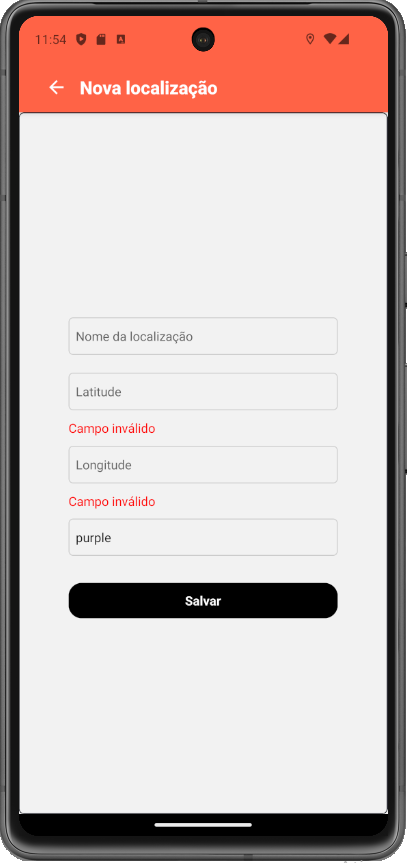
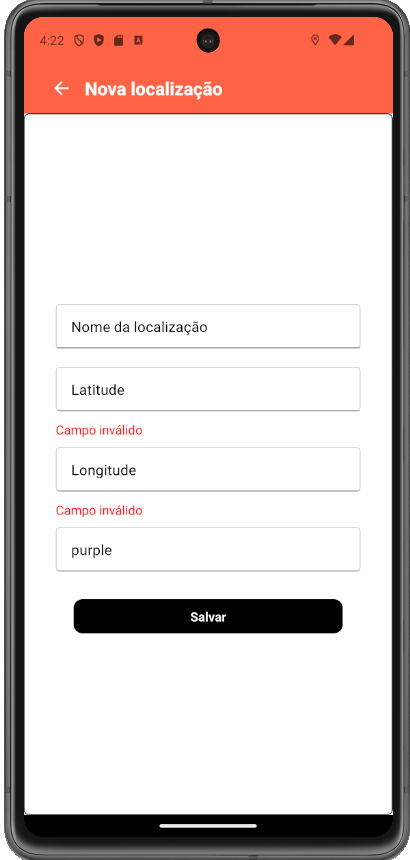
Atualização das imagens das telas e inclusão de novas telas

Changed region(s): [[0.0, 0.0, 1.0, 1.0], [0.1474, 0.3628, 0.855, 0.7558]]

diff --git a/app/register.tsx b/app/register.tsx
@@ -1,8 +1,7 @@
 import { useEffect, useState } from 'react';
-import { StyleSheet, View, TouchableOpacity, Alert } from 'react-native';
+import { StyleSheet, View, Alert } from 'react-native';
 import Input from '../components/input'
 import { router } from 'expo-router';
-//import env from '@/constants/env';
 import env from './(private)/config';
 import { ColorsContants, FontConstants } from '../styles/Global.style';
 import { Text, Button } from 'react-native-paper'
@@ -99,7 +98,6 @@ const styles = StyleSheet.create({
   },
   button : {
     marginTop: 20,
-    padding: 10,
     backgroundColor: '#3477eb',
     borderRadius: 5,
     minWidth: 100,

diff --git a/app/login.tsx b/app/login.tsx
@@ -3,7 +3,6 @@ import { StyleSheet, View, Alert } from 'react-native';
 import Input from '../components/input'
 import { Link, router } from 'expo-router';
 import { ColorsContants, FontConstants } from '../styles/Global.style';
-//import env from '@/constants/env';
 import env from './(private)/config';
 import { UserActionType, UserContext, UserDispatchContext } from '../context/userContext';
 import { Text, Button } from 'react-native-paper'

diff --git a/components/input.tsx b/components/input.tsx
@@ -35,11 +35,13 @@ const styles = StyleSheet.create({
         minWidth: 300,
         maxHeight: 50,
         backgroundColor: 'transparent',
+        textAlignVertical: 'center',
+        justifyContent: 'center'
     },
     errorMessage: {
         color: ColorsContants.errorConstantsColor
     },
     placeHolder: {
-        color: FontConstants.color
+        color: FontConstants.color,
     }
 });

diff --git a/app/(private)/nova_local_gq/index.tsx b/app/(private)/nova_local_gq/index.tsx
@@ -5,7 +5,6 @@ import { router, useNavigation } from 'expo-router';
 import { HeaderBackButton } from '@react-navigation/elements';
 import { useSQLiteContext } from 'expo-sqlite';
 import { ColorsContants } from '../../../styles/Global.style';
-//import env from '@/constants/env';
 import env from '../config';
 import { Text, Button } from 'react-native-paper'
 

diff --git a/app/(private)/locais_gq/index.tsx b/app/(private)/locais_gq/index.tsx
@@ -4,7 +4,6 @@ import { Alert, StyleSheet, View } from "react-native";
 import Localizacao from '../../../components/localizacao';
 import { useSQLiteContext } from 'expo-sqlite';
 import { ColorsContants } from '../../../styles/Global.style';
-//import env from '@/constants/env';
 import env from '../config';
 import { Button, Text } from 'react-native-paper'
 

diff --git a/app/(private)/lista_locais_gq/index.tsx b/app/(private)/lista_locais_gq/index.tsx
@@ -5,7 +5,6 @@ import { HeaderBackButton } from '@react-navigation/elements';
 import { ListaLocais_gq } from '../../../components/lista';
 import { useSQLiteContext } from 'expo-sqlite';
 import { ColorsContants } from '../../../styles/Global.style';
-//import env from '@/constants/env';
 import env from '../config';
 import { FAB } from 'react-native-paper'
 
